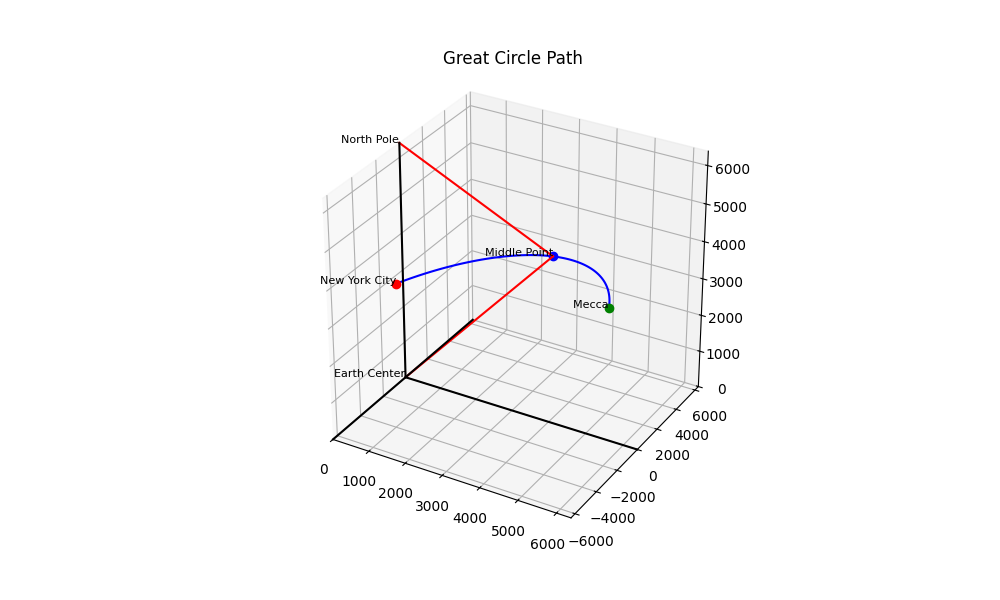
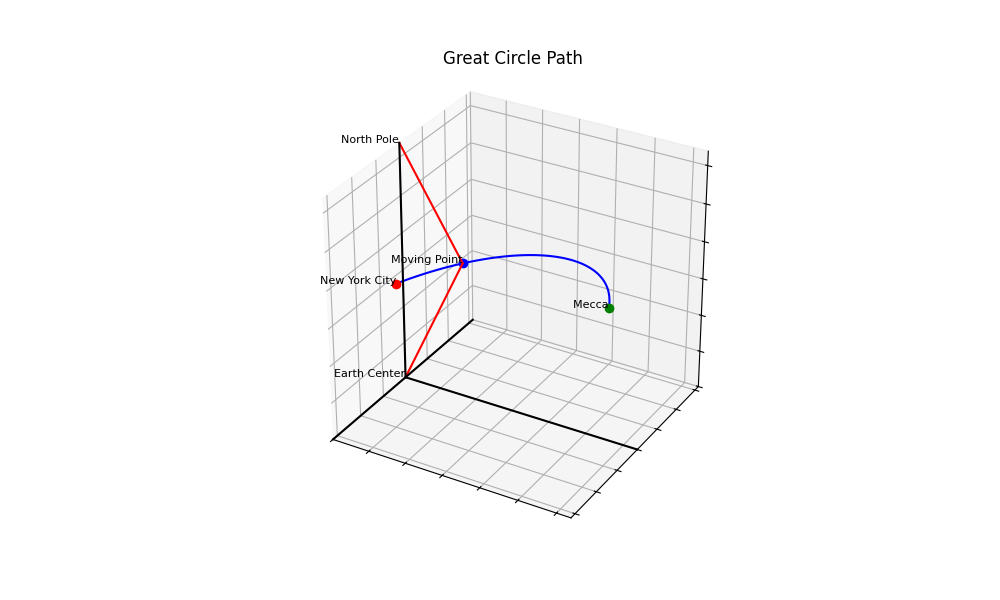
renamed variables

diff --git a/spherical_plots.py b/spherical_plots.py
@@ -21,24 +21,34 @@ def geodetic_to_cartesian(lat, lon, alt=0):
     return x, y, z
 
 # Define the source and destination coordinates (latitude, longitude)
-source = (40.7128, -74.0060)  # New York City
+source_lat_long = (40.7128, -74.0060)  # New York City
+source_geodesy=ev.LatLon(*source_lat_long)
 
-mecca = geolocator.geocode("Mecca")
-destination=(mecca.latitude, mecca.longitude)
+mecca_geopy = geolocator.geocode("Mecca")
+mecca_lat_long=(mecca_geopy.latitude, mecca_geopy.longitude)
+mecca_geodesy=ev.LatLon(*mecca_lat_long)
 #destination = (34.0522, -118.2437)  # Los Angeles
 
 
-# Calculate the midpoint on the great circle path between source and destination
-path = ev.LatLon(*source).midpointTo(ev.LatLon(*destination))
+""" # Calculate the midpoint on the great circle path between source and destination
+midpoint_geodesy = ev.LatLon(*source_lat_long).midpointTo(mecca_geodesy) """
+
+
+# Get the destination point along the great circle path
+distance_from_source=2000000 #in meters
+moving_point_geodesy = source_geodesy.destination(distance_from_source, source_geodesy.initialBearingTo(mecca_geodesy))
+
 
 # Generate intermediate points along the great circle path
 n_points = 100
-points = [ev.LatLon(*source).intermediateTo(ev.LatLon(*destination), i / n_points) for i in range(n_points)]
+points_geodesy = [ev.LatLon(*source_lat_long).intermediateTo(ev.LatLon(*mecca_lat_long), i / n_points) for i in range(n_points)]
 
 # Convert source, destination, and midpoint to Cartesian coordinates
-source_cartesian = geodetic_to_cartesian(*source)
-destination_cartesian = geodetic_to_cartesian(*destination)
-midpoint_cartesian = geodetic_to_cartesian(path.lat, path.lon)
+source_cartesian = geodetic_to_cartesian(*source_lat_long)
+mecca_cartesian = geodetic_to_cartesian(*mecca_lat_long)
+#midpoint_cartesian = geodetic_to_cartesian(midpoint_geodesy.lat, midpoint_geodesy.lon)
+moving_point_cartesian = geodetic_to_cartesian(moving_point_geodesy.lat, moving_point_geodesy.lon)
+
 
 #Earth center an dnorth pole points in cartesian coordinates
 north_pole_cartesian=(0,0,R)
@@ -48,8 +58,8 @@ earth_center=(0,0,0)
 fig = plt.figure(figsize=(10, 6))
 ax = fig.add_subplot(111, projection='3d')
 
-# Plot the intermediate points in Cartesian coordinates
-intermediate_points_cartesian = [geodetic_to_cartesian(point.lat, point.lon) for point in points]
+# Plot great circle path  in Cartesian coordinates
+intermediate_points_cartesian = [geodetic_to_cartesian(point.lat, point.lon) for point in points_geodesy]
 x_points = [point[0] for point in intermediate_points_cartesian]
 y_points = [point[1] for point in intermediate_points_cartesian]
 z_points = [point[2] for point in intermediate_points_cartesian]
@@ -57,14 +67,16 @@ ax.plot(x_points, y_points, z_points, 'b-')
 
 # Plot the source, destination, and midpoint points
 ax.plot([source_cartesian[0]], [source_cartesian[1]], [source_cartesian[2]], 'ro')  # source
-ax.plot([destination_cartesian[0]], [destination_cartesian[1]], [destination_cartesian[2]], 'go')  # Destination
-ax.plot([midpoint_cartesian[0]], [midpoint_cartesian[1]], [midpoint_cartesian[2]], 'bo')  # Midpoint
+ax.plot([mecca_cartesian[0]], [mecca_cartesian[1]], [mecca_cartesian[2]], 'go')  # Destination
+#ax.plot([midpoint_cartesian[0]], [midpoint_cartesian[1]], [midpoint_cartesian[2]], 'bo')  # Midpoint
+ax.plot([moving_point_cartesian[0]], [moving_point_cartesian[1]], [moving_point_cartesian[2]], 'bo')  # Movingpoint
+
 
 # Plot the red vector from the center of the Earth to the midpoint
-ax.plot([earth_center[0], midpoint_cartesian[0]], [earth_center[1], midpoint_cartesian[1]], [earth_center[2], midpoint_cartesian[2]], 'r-')
+ax.plot([earth_center[0], moving_point_cartesian[0]], [earth_center[1], moving_point_cartesian[1]], [earth_center[2], moving_point_cartesian[2]], 'r-')
 
 # Plot the red vector from the center of the North Pole to the midpoint
-ax.plot([north_pole_cartesian[0], midpoint_cartesian[0]], [north_pole_cartesian[1], midpoint_cartesian[1]], [north_pole_cartesian[2], midpoint_cartesian[2]], 'r-')
+ax.plot([north_pole_cartesian[0], moving_point_cartesian[0]], [north_pole_cartesian[1], moving_point_cartesian[1]], [north_pole_cartesian[2], moving_point_cartesian[2]], 'r-')
 
 # # Plot the red vector from the center of the Earth to the source
 # ax.plot([0, source_cartesian[0]], [0, source_cartesian[1]], [0, source_cartesian[2]], 'r-')
@@ -73,8 +85,8 @@ ax.plot([north_pole_cartesian[0], midpoint_cartesian[0]], [north_pole_cartesian[
 ax.text(earth_center[0], earth_center[1], earth_center[2], '  Earth Center', fontsize=8, ha='right')
 ax.text(north_pole_cartesian[0], north_pole_cartesian[1], north_pole_cartesian[2], '  North Pole', fontsize=8, ha='right')
 ax.text(source_cartesian[0], source_cartesian[1], source_cartesian[2], '  New York City', fontsize=8, ha='right')
-ax.text(destination_cartesian[0], destination_cartesian[1], destination_cartesian[2], '  Mecca', fontsize=8, ha='right')
-ax.text(midpoint_cartesian[0], midpoint_cartesian[1], midpoint_cartesian[2], '  Middle Point', fontsize=8, ha='right')
+ax.text(mecca_cartesian[0], mecca_cartesian[1], mecca_cartesian[2], '  Mecca', fontsize=8, ha='right')
+ax.text(moving_point_cartesian[0], moving_point_cartesian[1], moving_point_cartesian[2], '  Moving Point', fontsize=8, ha='right')
 
 
 # Set axis limits
@@ -92,6 +104,11 @@ ax.plot([0, 0], [0, 0], [0, R], 'k-')  # Z-axis
 ax.set_xlabel('') #'X'
 ax.set_ylabel('')
 ax.set_zlabel('')
+
+#Remove ticks
+ax.set_xticklabels([])
+ax.set_yticklabels([])
+ax.set_zticklabels([])
 
 plt.title('Great Circle Path')
 
